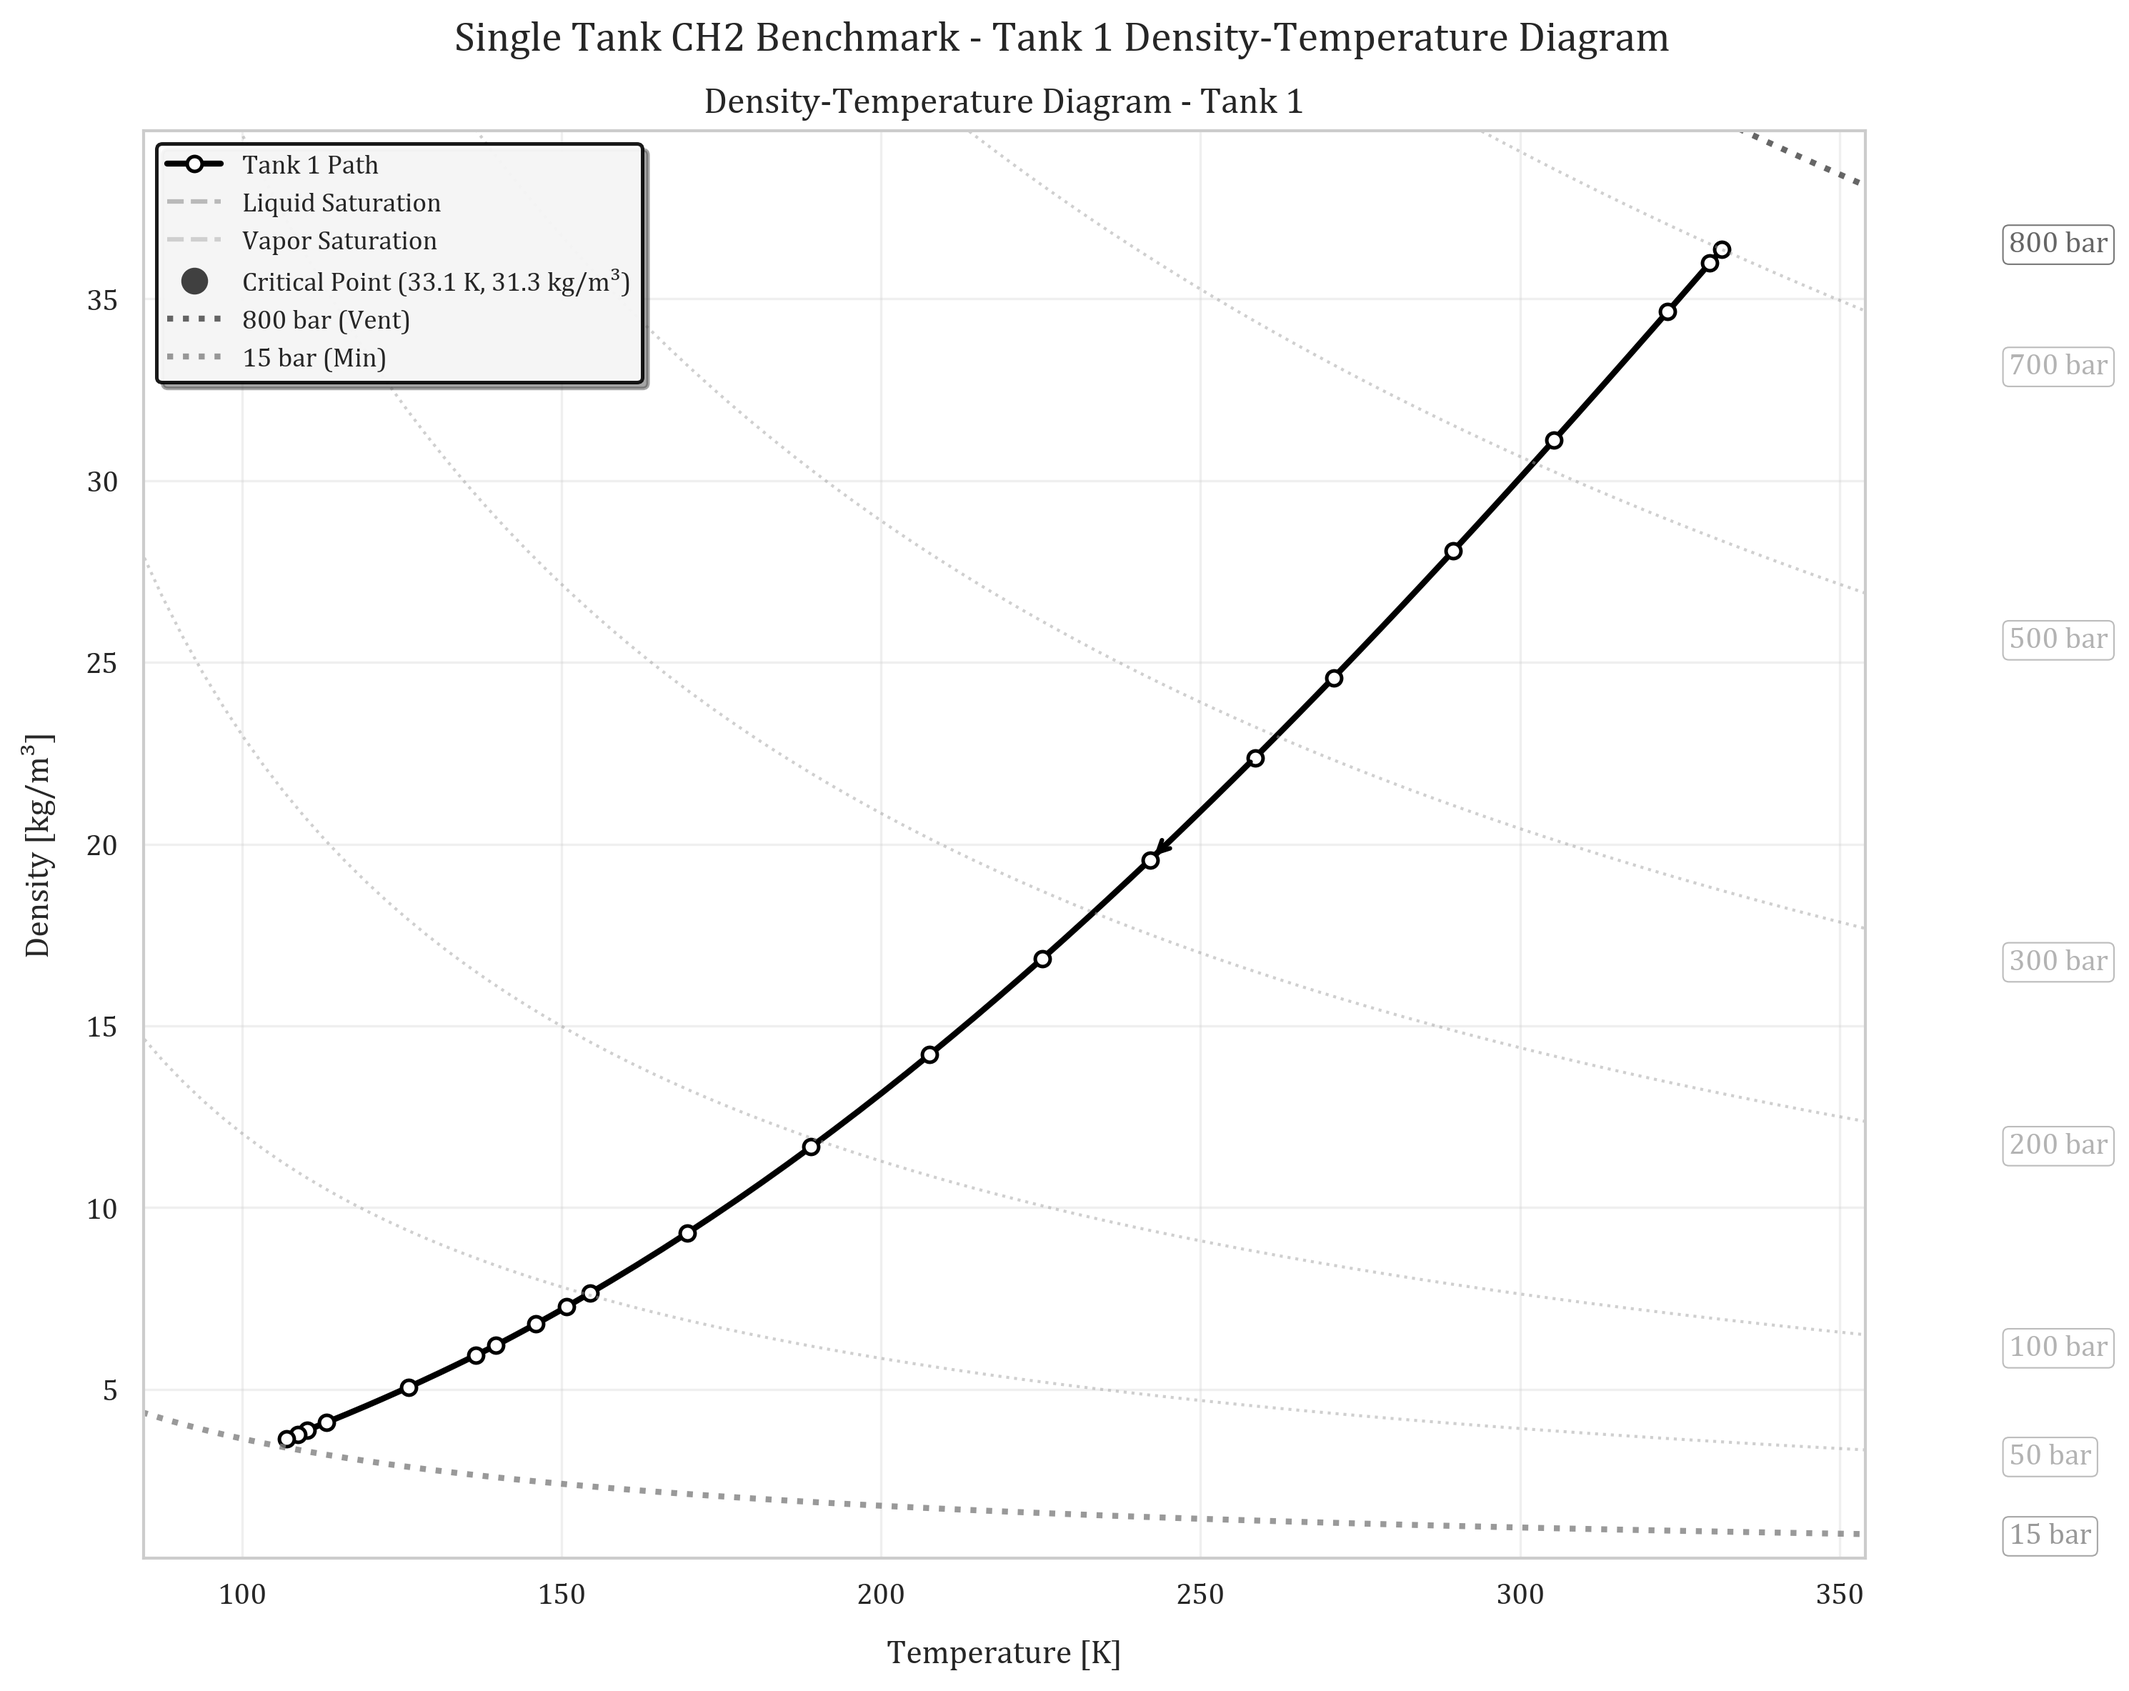
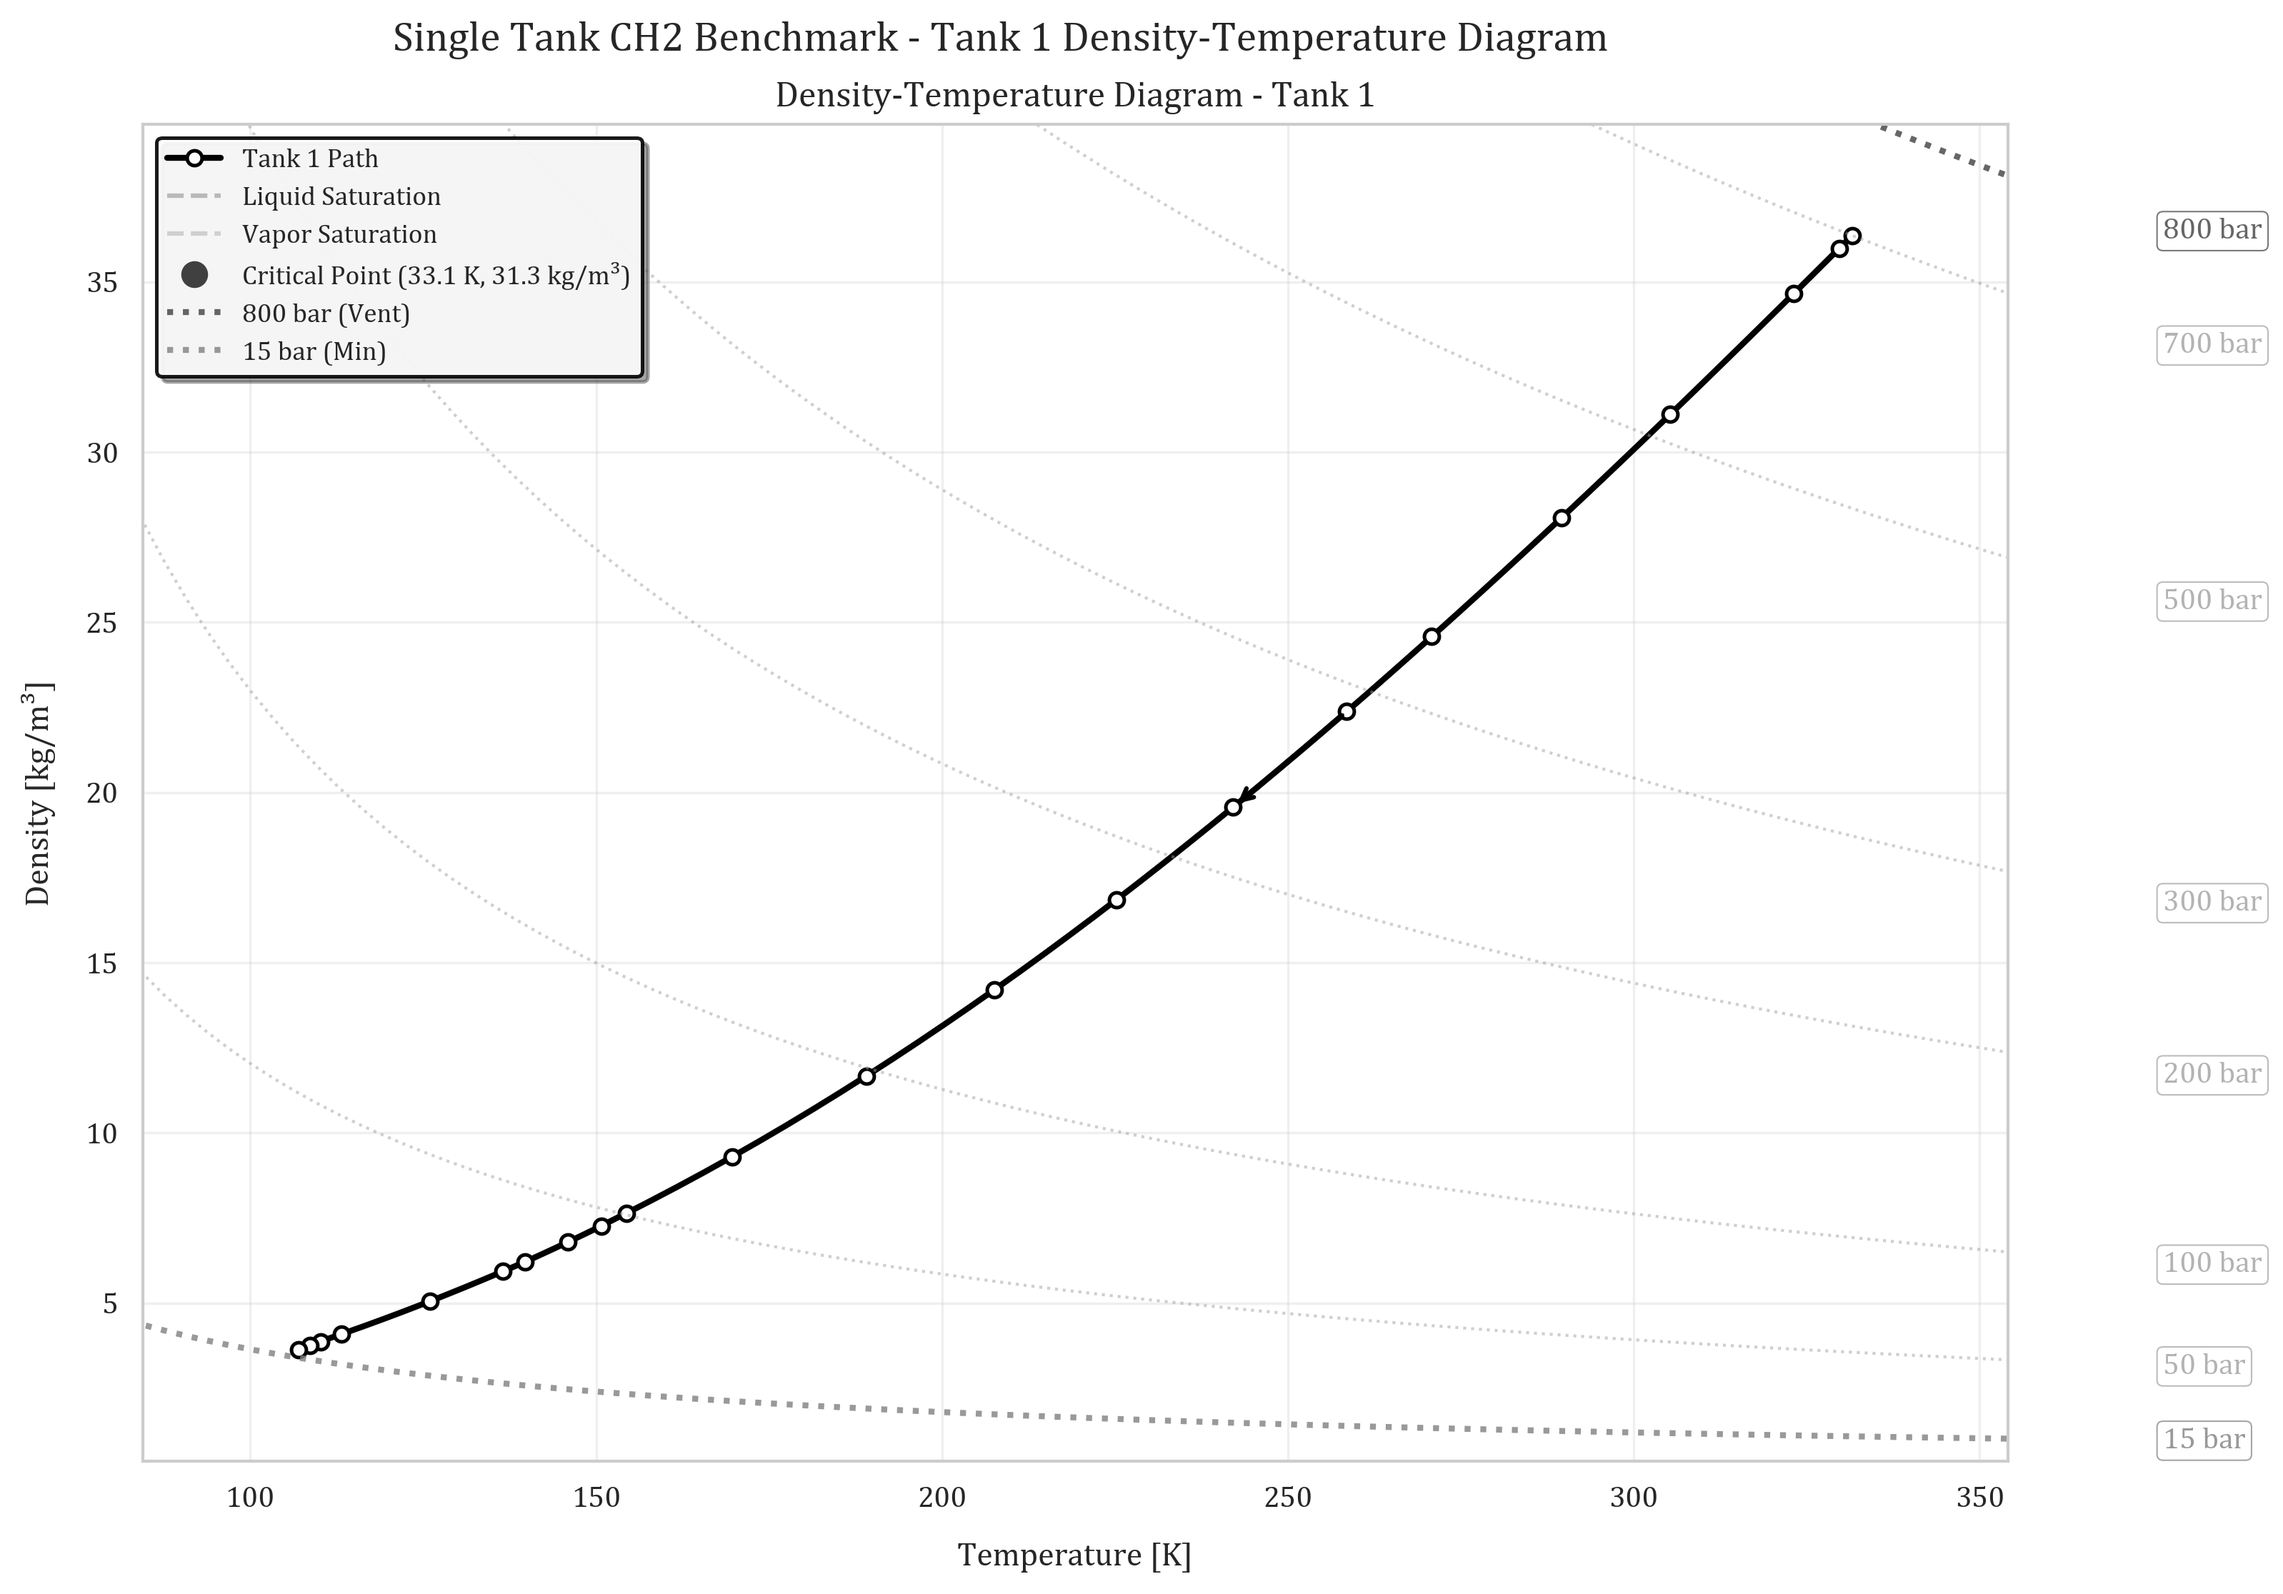
feat: Add oHEX target temperature and pressure parameters to configuration files and enhance logging for fallback values in system orchestrator

diff --git a/src/orchestration/system_orchestrator.py b/src/orchestration/system_orchestrator.py
@@ -130,6 +130,12 @@ class SystemOrchestrator:
             activation_threshold = hysteresis.get('activation_threshold_bar', 20.0)    # Open valve when Tank 2 ≤ this pressure
             deactivation_threshold = hysteresis.get('deactivation_threshold_bar', 21.0)  # Close valve when Tank 2 ≥ this pressure
 
+            # Log fallback usage for transparency
+            if 'activation_threshold_bar' not in hysteresis:
+                print(f"⚠  Using fallback: activation_threshold_bar = {activation_threshold} bar (consider adding to YAML config)")
+            if 'deactivation_threshold_bar' not in hysteresis:
+                print(f"⚠  Using fallback: deactivation_threshold_bar = {deactivation_threshold} bar (consider adding to YAML config)")
+
             tank_system_rule = {
                 'source_tank': participants.get('source', 1) - 1,  # Convert 1-based to 0-based index
                 'target_tank': participants.get('target', 2) - 1,  # Convert 1-based to 0-based index
@@ -138,6 +144,13 @@ class SystemOrchestrator:
                 'max_flow_rate': flow_params.get('max_flow_rate_kg_s', 0.05),
                 'orifice_diameter': flow_params.get('orifice_diameter_m', 0.01)  # Default 10mm orifice
             }
+
+            # Log fallback usage for critical coupling parameters
+            if 'max_flow_rate_kg_s' not in flow_params:
+                print(f"⚠  Using fallback: max_flow_rate_kg_s = {tank_system_rule['max_flow_rate']} kg/s (consider adding to YAML config)")
+            if 'orifice_diameter_m' not in flow_params:
+                print(f"⚠  Using fallback: orifice_diameter_m = {tank_system_rule['orifice_diameter']} m (consider adding to YAML config)")
+
             tank_system_coupling_rules.append(tank_system_rule)
 
         # Initialize TankSystem with all components
@@ -224,6 +237,8 @@ class SystemOrchestrator:
 
                 material = NISTMaterial.aluminum_6061T6_nist()
                 operating_pressure = geometry_data.get('venting_pressure', 450e5)  # Default 450 bar
+                if 'venting_pressure' not in geometry_data:
+                    print(f"⚠  Using fallback: venting_pressure = {operating_pressure/1e5:.0f} bar for Tank {tank_id} (consider adding to YAML config)")
 
                 # Calculate tank geometry from mission requirements
                 tank_geom = self._create_mission_sized_tank(geometry_data, material, operating_pressure)
@@ -245,6 +260,8 @@ class SystemOrchestrator:
             initial_pressure = float(geometry_data['initial_pressure'])
             venting_pressure = float(geometry_data.get('venting_pressure', initial_pressure * 1.125))
             minimum_pressure = float(geometry_data.get('minimum_pressure', min(15e5, initial_pressure * 0.1)))
+            if 'minimum_pressure' not in geometry_data:
+                print(f"⚠  Using fallback: minimum_pressure = {minimum_pressure/1e5:.1f} bar for Tank {tank_id} (calculated from initial_pressure)")
 
             # Use calculated temperature from mission sizing if available
             if 'calculated_initial_temperature' in geometry_data:
@@ -290,6 +307,8 @@ class SystemOrchestrator:
         else:
             first_tank_data = list(self.scenario_config.tank_geometries.values())[0]
             minimum_density = float(first_tank_data.get('minimum_density', 5.8))  # Default 5.8 kg/m³
+            if 'minimum_density' not in first_tank_data:
+                print(f"⚠  Using fallback: minimum_density = {minimum_density} kg/m³ for stopping criteria (consider adding to YAML config)")
 
         # Get target density from stopping criteria configuration
         target_density = None
@@ -353,9 +372,17 @@ class SystemOrchestrator:
                 mission_data = raw_config['mission']
                 flow_rate = mission_data.get('flow_rate', 0.001)
                 duration = mission_data.get('duration', 36000)
+
+                # Log fallback usage for mission parameters
+                if 'flow_rate' not in mission_data:
+                    print(f"⚠  Using fallback: flow_rate = {flow_rate} kg/s (consider adding to YAML config)")
+                if 'duration' not in mission_data:
+                    print(f"⚠  Using fallback: duration = {duration} s ({duration/3600:.1f} hours) (consider adding to YAML config)")
                 mission_type = mission_data.get('type', 'discharge')
                 mission_key = mission_data.get('key', mission_type)
                 ambient_temp = mission_data.get('ambient_temperature', 288.15)
+                if 'ambient_temperature' not in mission_data:
+                    print(f"⚠  Using fallback: ambient_temperature = {ambient_temp} K (consider adding to YAML config)")
 
             elif 'mission_sequence' in raw_config and 'missions' in raw_config['mission_sequence']:
                 # Fallback to sequential mission format - use first mission
@@ -792,6 +819,12 @@ class SystemOrchestrator:
         hex_config = self.scenario_config.config_dict.get('output', {}).get('plots', {}).get('heat_exchanger_requirements', {})
         target_temp = float(hex_config.get('ohex_target_temperature', 200.0))  # K
         target_press = float(hex_config.get('ohex_target_pressure', 20e5))    # Pa
+
+        # Log fallback usage for heat exchanger parameters
+        if 'ohex_target_temperature' not in hex_config:
+            print(f"⚠  Using fallback: ohex_target_temperature = {target_temp} K (now available in YAML config)")
+        if 'ohex_target_pressure' not in hex_config:
+            print(f"⚠  Using fallback: ohex_target_pressure = {target_press/1e5:.0f} bar (now available in YAML config)")
 
         try:
             # Calculate target enthalpy (constant for all time points)
